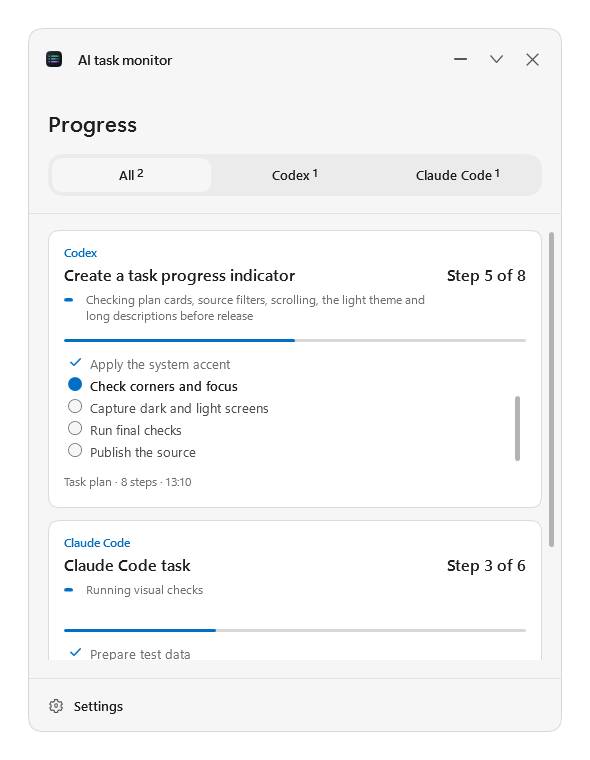
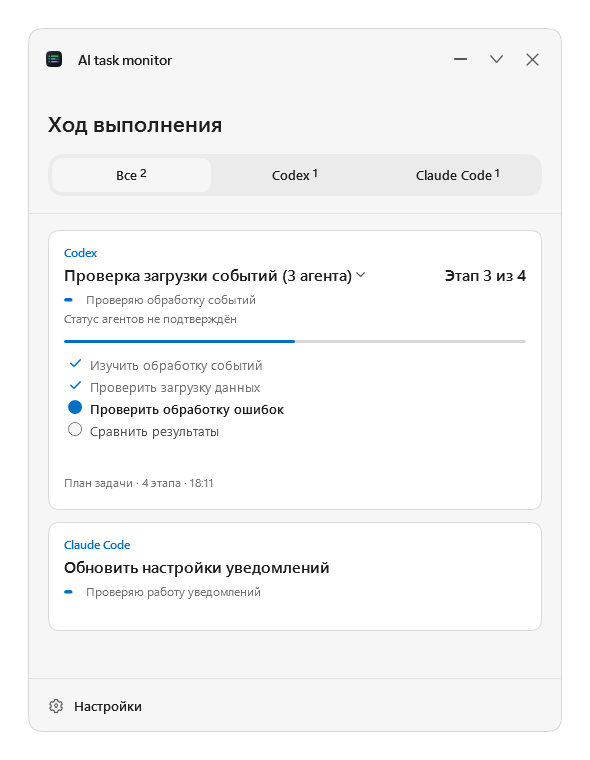
Publish Windows 0.2.13 [publish-verified]

diff --git a/README.md b/README.md
@@ -7,6 +7,7 @@
 AI Task Monitor — бесплатное приложение для Windows 11 и macOS, которое помогает следить за локальными задачами Codex и Claude Code в одном окне.
 
 - Показывает доступные задачи и сведения о действиях; неподтверждённый статус отмечает отдельно.
+- Объединяет помощников Codex в карточке родительской задачи, когда связь подтверждена. Список помощников и их доступных действий можно раскрыть; неподтверждённое состояние помечается. Такой помощник может оставаться в счётчике после завершения до обновления состояния или перезапуска монитора.
 - Если агент опубликовал план, отображает его этапы и долю выполненных этапов. Одновременно в карточке видно до пяти этапов; остальные можно прокрутить.
 - Без плана показывает доступную активность; процент не выводится, если данных для оценки недостаточно. Приблизительная оценка помечается знаком `≈`.
 - Компактное окно можно держать поверх других окон и переключать задачи; настройки доступны в развёрнутом режиме. В macOS окно становится активным при наведении.
@@ -33,6 +34,7 @@ AI Task Monitor — бесплатное приложение для Windows 11 
 AI Task Monitor is a free Windows 11 and macOS app for following local Codex and Claude Code tasks in one window.
 
 - Shows available tasks and activity, marking unconfirmed status separately.
+- Groups Codex assistants under their parent task when the relationship is confirmed. Their list and available activity can be expanded, with unconfirmed status marked. An unconfirmed assistant may remain in the count after finishing until its state is refreshed or the monitor restarts.
 - When an agent publishes a plan, shows its steps and the share of completed steps. Up to five steps are visible per card; the rest can be scrolled.
 - Without a plan, shows available activity and omits the percentage when there is not enough information to estimate it. Estimated values use `≈`.
 - A compact window can stay above other windows and switch between tasks; settings are available in the expanded view. On macOS, hovering over the window activates it.
@@ -56,12 +58,17 @@ The [project license](LICENSE) allows free use, including internal business use,
 
 ## Скриншоты / Screenshots
 
-### Windows 0.2.12
+### Windows 0.2.13
 
 | Развёрнуто / Expanded | Компактно / Compact | Настройки / Settings |
 | --- | --- | --- |
 | ![Windows expanded, dark](screenshots/expanded-dark.png) | ![Windows compact, dark](screenshots/compact-dark.png) | ![Windows settings, dark](screenshots/settings-dark.png) |
 | ![Windows expanded, light](screenshots/expanded-light.png) | ![Windows compact, light](screenshots/compact-light.png) | ![Windows settings, light](screenshots/settings-light.png) |
+
+| Помощники / Assistants | Помощники компактно / Compact assistants | Claude Code компактно / Compact Claude Code |
+| --- | --- | --- |
+| ![Windows assistants, dark](screenshots/windows-agents-dark.png) | ![Windows compact assistants, dark](screenshots/windows-compact-agents-dark.png) | ![Windows compact Claude Code, dark](screenshots/windows-compact-claude-dark.png) |
+| ![Windows assistants, light](screenshots/windows-agents-light.png) | ![Windows compact assistants, light](screenshots/windows-compact-agents-light.png) | ![Windows compact Claude Code, light](screenshots/windows-compact-claude-light.png) |
 
 ### macOS 0.3.11
 
